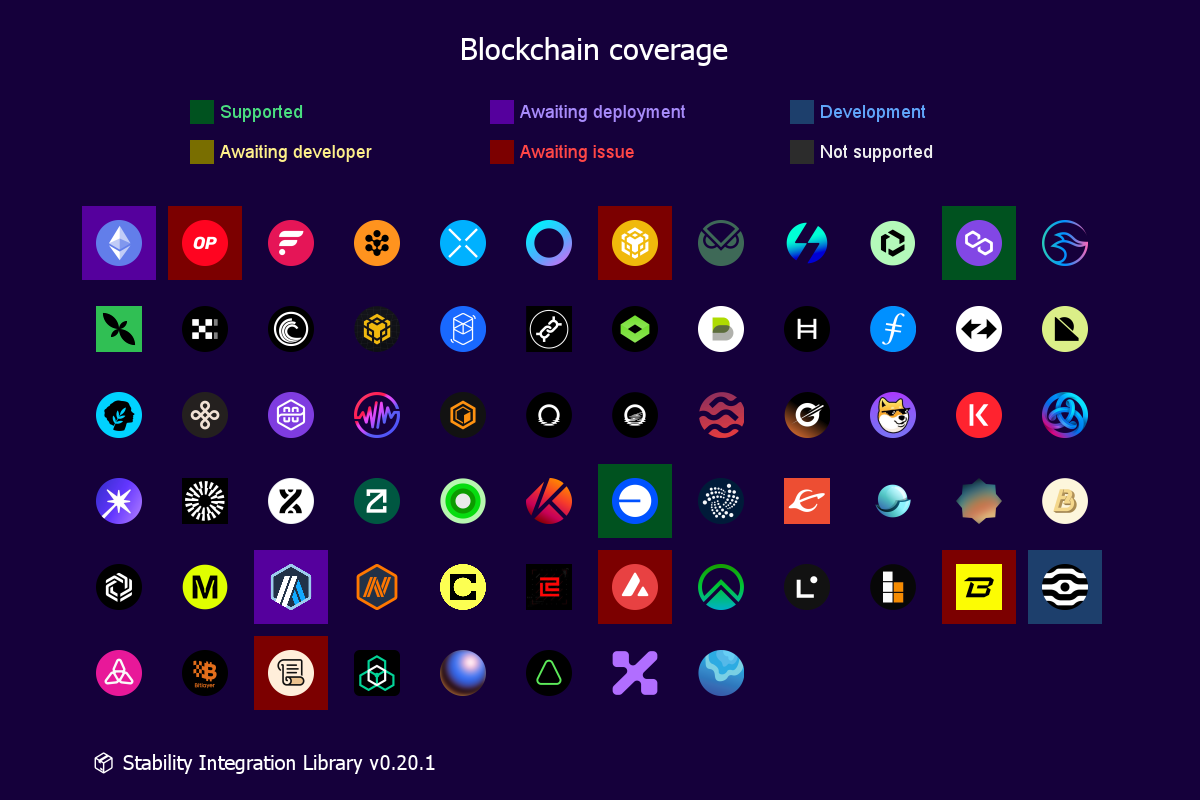
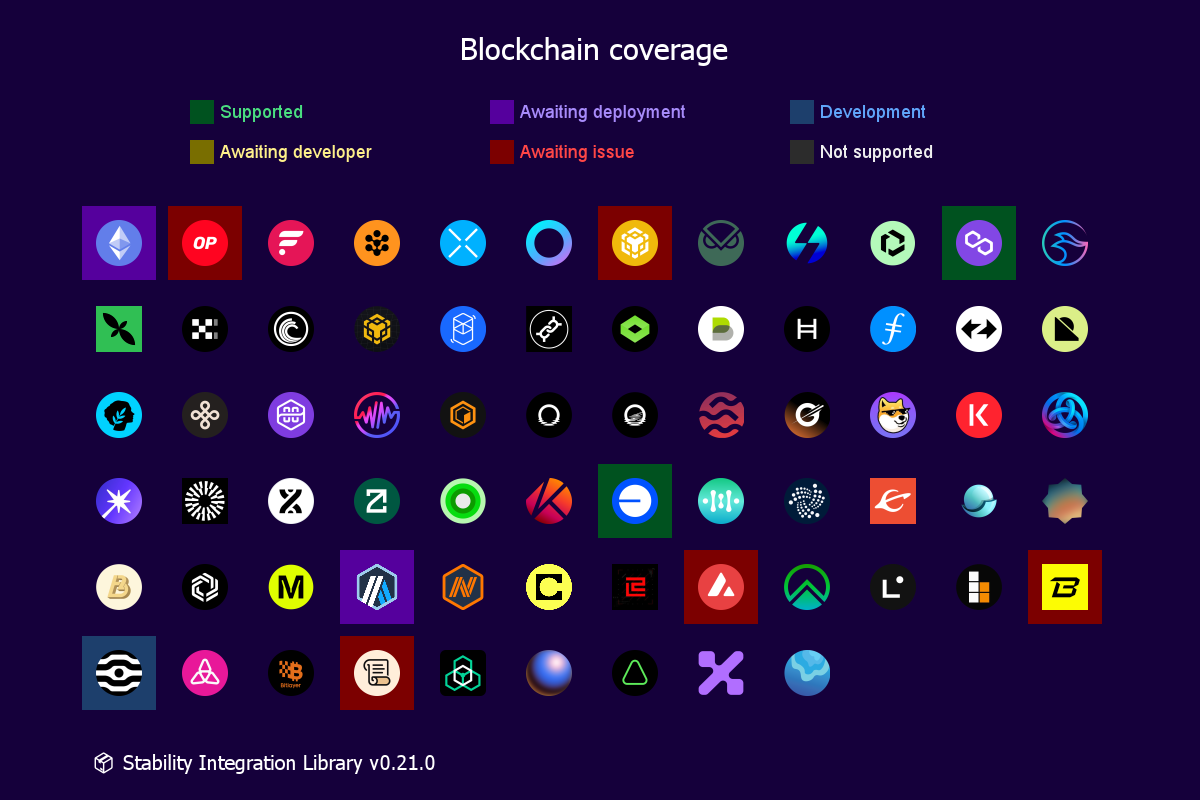
lint | rename landscape img | generate img -> chains and integrations

diff --git a/src/chains.ts b/src/chains.ts
@@ -94,7 +94,7 @@ export const enum ChainName {
   XPLA = "Xpla",
   BEVM = "BEVM",
   DYMENSION = "Dymension",
-  HELA= "Hela",
+  HELA = "Hela",
 }
 
 export const chains: { [chainId: string]: Chain } = {
@@ -525,7 +525,7 @@ export const chains: { [chainId: string]: Chain } = {
     chainId: 8668,
     status: ChainStatus.NOT_SUPPORTED,
     img: "hela.png",
-  }
+  },
 };
 
 export const chainStatusInfo: { [status in ChainStatus]: ChainStatusInfo } = {

diff --git a/tools/draw-defi.ts b/tools/draw-defi.ts
@@ -23,7 +23,7 @@ async function main() {
   }
 
   // save to
-  const filename = "./organizations.png";
+  const filename = "./integrations.png";
 
   // Dimensions for the image
   const width = 1200;
@@ -63,7 +63,7 @@ async function main() {
   // title
   ctx.font = '30px "Sans"';
   ctx.fillStyle = "#ffffff";
-  ctx.fillText("Integrations Landscape", 460, 60);
+  ctx.fillText("Integrations", 460, 60);
 
   // library
   ctx.font = '20px "Sans"';
